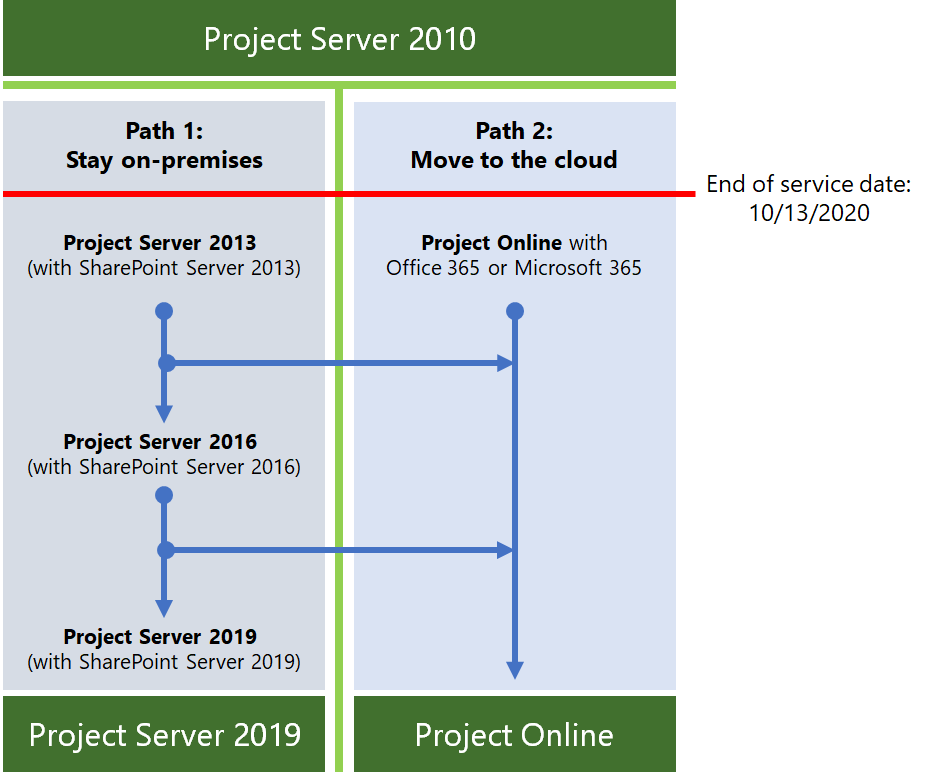
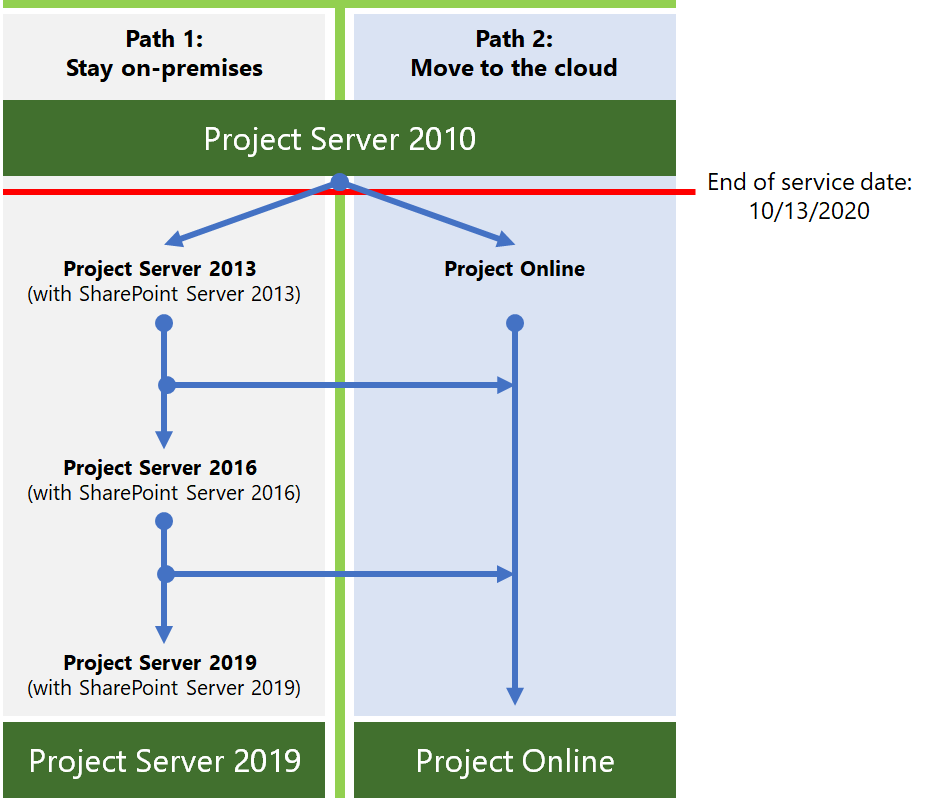
Final updates for Project Server 2010 EOS figure

diff --git a/Enterprise/project-server-2010-end-of-support.md b/Enterprise/project-server-2010-end-of-support.md
@@ -3,7 +3,7 @@ title: "Project Server 2010 end-of-support roadmap"
 ms.author: efrene
 author: efrene
 manager: pamg
-ms.date: 06/03/2019
+ms.date: 07/11/2019
 audience: ITPro
 ms.topic: conceptual
 ms.service: o365-administration
@@ -52,7 +52,7 @@ If you are using Project Server 2010, you need to explore your migration options
     
 - Migrate to a newer on-premises version of Project Server (preferably Project Server 2019).
 
-Here is a graphic that shows the two paths to take to avoid the end of support for Project Server 2010.
+Here are the two paths you can take to avoid the end of support for Project Server 2010.
 
 ![Project Server 2010 upgrade paths](./media/project-server-2010-end-of-support/project-server-2010-end-of-support-timeline.png)
 
